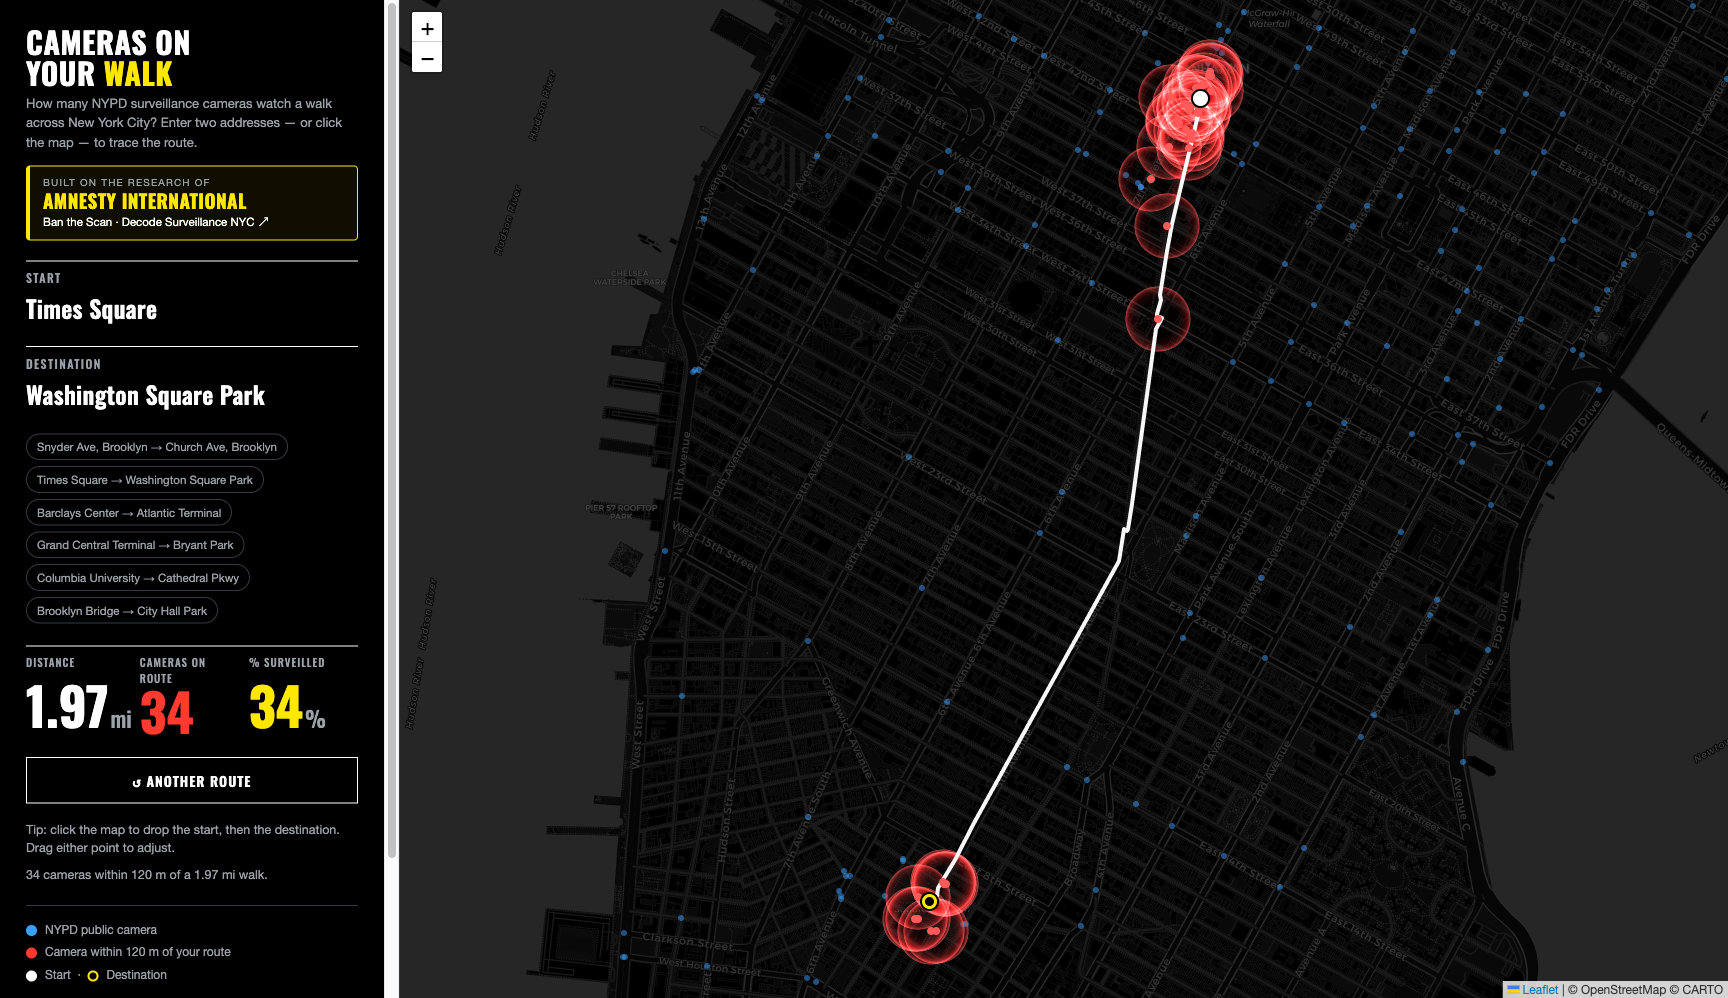
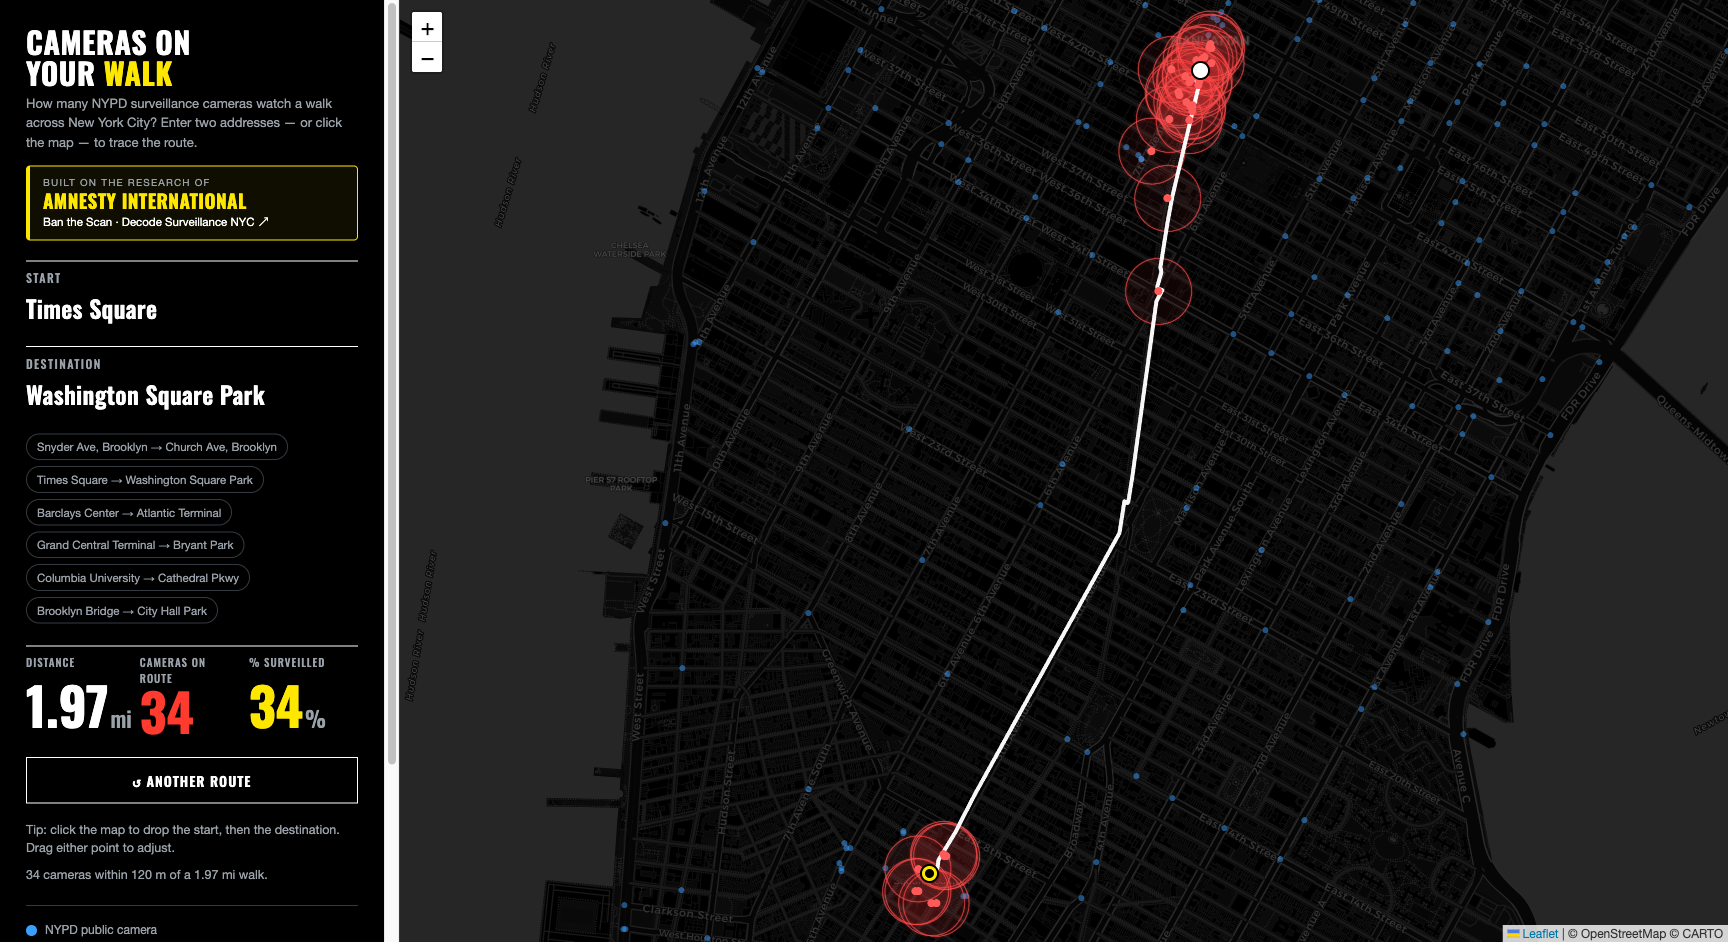
Render coverage circles as crisp SVG vector rings
Replace the rasterized additive-glow canvas layer with SVG L.circle rings: thin bright edge, near-transparent fill, a 1px drop-shadow for a hint of glow. Stays razor-sharp at any zoom (the canvas gradient looked blurry/washed-out when zoomed in) and matches the original's crisp-ring aesthetic.

diff --git a/banthescan-walk.html b/banthescan-walk.html
@@ -131,6 +131,8 @@
   .pin { width: 15px; height: 15px; border-radius: 50%; box-shadow: 0 0 0 2px #000; }
   .pin-start { background: #fff; border: 3px solid #fff; }
   .pin-end { background: #000; border: 3px solid var(--accent); }
+  /* crisp coverage ring with just a hint of glow (stays vector-sharp) */
+  .cam-ring { filter: drop-shadow(0 0 1px rgba(255,70,70,0.5)); }
 </style>
 </head>
 <body>
@@ -497,52 +499,11 @@ for (const [lat, lon] of PUBLIC) {
   }).addTo(camLayer);
 }
 
-// Additive radial-glow layer for on-route cameras — reproduces Amnesty's look:
-// a dark centre fading to a bright red rim, with overlapping circles building up
-// (globalCompositeOperation 'lighter' = true additive light).
-const GlowLayer = L.Layer.extend({
-  initialize() { this._data = []; },
-  setData(cams) { this._data = cams; this._render(); return this; },
-  onAdd(map) {
-    this._map = map;
-    this._canvas = L.DomUtil.create('canvas');
-    this._canvas.style.position = 'absolute';
-    map.getPane('glowPane').appendChild(this._canvas);
-    map.on('moveend zoomend resize move', this._render, this);
-    this._render();
-  },
-  onRemove(map) { map.off('moveend zoomend resize move', this._render, this); L.DomUtil.remove(this._canvas); },
-  _render() {
-    if (!this._map) return;
-    const map = this._map, size = map.getSize(), cv = this._canvas;
-    if (cv.width !== size.x || cv.height !== size.y) { cv.width = size.x; cv.height = size.y; }
-    L.DomUtil.setPosition(cv, map.containerPointToLayerPoint([0, 0]));
-    const ctx = cv.getContext('2d');
-    ctx.clearRect(0, 0, size.x, size.y);
-    if (!this._data.length) return;
-    ctx.globalCompositeOperation = 'lighter';
-    for (const [lat, lon] of this._data) {
-      const p = map.latLngToContainerPoint([lat, lon]);
-      const edge = map.latLngToContainerPoint([lat + RADIUS / 111320, lon]);
-      const r = Math.abs(p.y - edge.y);
-      if (r < 1.5 || p.x < -r || p.y < -r || p.x > size.x + r || p.y > size.y + r) continue;
-      const g = ctx.createRadialGradient(p.x, p.y, 0, p.x, p.y, r);
-      g.addColorStop(0.00, 'rgba(255,45,45,0)');
-      g.addColorStop(0.55, 'rgba(255,45,45,0.02)');
-      g.addColorStop(0.78, 'rgba(255,40,40,0.10)');
-      g.addColorStop(0.91, 'rgba(255,55,55,0.30)');
-      g.addColorStop(0.975, 'rgba(255,95,95,0.60)');
-      g.addColorStop(1.00, 'rgba(255,110,110,0)');
-      ctx.fillStyle = g;
-      ctx.beginPath();
-      ctx.arc(p.x, p.y, r, 0, Math.PI * 2);
-      ctx.fill();
-    }
-  },
-});
-const glowLayer = new GlowLayer().addTo(map);
+// Crisp vector coverage rings (SVG) for on-route cameras — thin bright edge,
+// mostly-dark interior, like the original. Sharp at any zoom (no raster blur).
+const glowRenderer = L.svg({ pane: 'glowPane' });
 
-// White route line + bright red camera dots, drawn above the glow.
+// White route line + bright red camera dots, drawn above the rings.
 const routeRenderer = L.canvas({ pane: 'routePane' });
 const routeLayer = L.layerGroup().addTo(map);
 
@@ -647,7 +608,12 @@ async function maybeRoute() {
 function drawRoute(pts, near) {
   routeLayer.clearLayers();
   const latlngs = pts.map((p) => [p.lat, p.lon]);
-  glowLayer.setData(near);                       // additive red glow (dark centre → red rim)
+  // Crisp 120 m coverage rings: thin bright edge + barely-there fill.
+  near.forEach((c) => L.circle([c[0], c[1]], {
+    renderer: glowRenderer, radius: RADIUS,
+    color: '#ff4d4d', weight: 1.1, opacity: 0.65,
+    fillColor: '#ff3030', fillOpacity: 0.045, className: 'cam-ring',
+  }).addTo(routeLayer));
   L.polyline(latlngs, { renderer: routeRenderer, color: '#fff', weight: 4, opacity: 0.97 }).addTo(routeLayer);
   near.forEach((c) => L.circleMarker([c[0], c[1]], {
     renderer: routeRenderer, radius: 3.5, weight: 0, fillColor: '#ff5a5a', fillOpacity: 1,
@@ -740,7 +706,7 @@ map.on('click', async (e) => {
     which = 'start';
     endPt = null; if (endMarker) { map.removeLayer(endMarker); endMarker = null; }
     el('to').value = '';
-    routeLayer.clearLayers(); glowLayer.setData([]);
+    routeLayer.clearLayers();
     ['v-dist', 'v-cams', 'v-expo'].forEach((id) => (el(id).textContent = '–'));
   } else which = 'end';
   setPoint(which, { lat, lon: lng, label: labelFor(lat, lng) }); // offline label
@@ -753,7 +719,7 @@ el('another').addEventListener('click', () => {
   startPt = endPt = null;
   [startMarker, endMarker].forEach((m) => m && map.removeLayer(m));
   startMarker = endMarker = null;
-  routeLayer.clearLayers(); glowLayer.setData([]);
+  routeLayer.clearLayers();
   el('from').value = ''; el('to').value = '';
   ['v-dist', 'v-cams', 'v-expo'].forEach((id) => (el(id).textContent = '–'));
   el('another').classList.remove('show');

diff --git a/src/template.html b/src/template.html
@@ -131,6 +131,8 @@
   .pin { width: 15px; height: 15px; border-radius: 50%; box-shadow: 0 0 0 2px #000; }
   .pin-start { background: #fff; border: 3px solid #fff; }
   .pin-end { background: #000; border: 3px solid var(--accent); }
+  /* crisp coverage ring with just a hint of glow (stays vector-sharp) */
+  .cam-ring { filter: drop-shadow(0 0 1px rgba(255,70,70,0.5)); }
 </style>
 </head>
 <body>
@@ -226,52 +228,11 @@ for (const [lat, lon] of PUBLIC) {
   }).addTo(camLayer);
 }
 
-// Additive radial-glow layer for on-route cameras — reproduces Amnesty's look:
-// a dark centre fading to a bright red rim, with overlapping circles building up
-// (globalCompositeOperation 'lighter' = true additive light).
-const GlowLayer = L.Layer.extend({
-  initialize() { this._data = []; },
-  setData(cams) { this._data = cams; this._render(); return this; },
-  onAdd(map) {
-    this._map = map;
-    this._canvas = L.DomUtil.create('canvas');
-    this._canvas.style.position = 'absolute';
-    map.getPane('glowPane').appendChild(this._canvas);
-    map.on('moveend zoomend resize move', this._render, this);
-    this._render();
-  },
-  onRemove(map) { map.off('moveend zoomend resize move', this._render, this); L.DomUtil.remove(this._canvas); },
-  _render() {
-    if (!this._map) return;
-    const map = this._map, size = map.getSize(), cv = this._canvas;
-    if (cv.width !== size.x || cv.height !== size.y) { cv.width = size.x; cv.height = size.y; }
-    L.DomUtil.setPosition(cv, map.containerPointToLayerPoint([0, 0]));
-    const ctx = cv.getContext('2d');
-    ctx.clearRect(0, 0, size.x, size.y);
-    if (!this._data.length) return;
-    ctx.globalCompositeOperation = 'lighter';
-    for (const [lat, lon] of this._data) {
-      const p = map.latLngToContainerPoint([lat, lon]);
-      const edge = map.latLngToContainerPoint([lat + RADIUS / 111320, lon]);
-      const r = Math.abs(p.y - edge.y);
-      if (r < 1.5 || p.x < -r || p.y < -r || p.x > size.x + r || p.y > size.y + r) continue;
-      const g = ctx.createRadialGradient(p.x, p.y, 0, p.x, p.y, r);
-      g.addColorStop(0.00, 'rgba(255,45,45,0)');
-      g.addColorStop(0.55, 'rgba(255,45,45,0.02)');
-      g.addColorStop(0.78, 'rgba(255,40,40,0.10)');
-      g.addColorStop(0.91, 'rgba(255,55,55,0.30)');
-      g.addColorStop(0.975, 'rgba(255,95,95,0.60)');
-      g.addColorStop(1.00, 'rgba(255,110,110,0)');
-      ctx.fillStyle = g;
-      ctx.beginPath();
-      ctx.arc(p.x, p.y, r, 0, Math.PI * 2);
-      ctx.fill();
-    }
-  },
-});
-const glowLayer = new GlowLayer().addTo(map);
+// Crisp vector coverage rings (SVG) for on-route cameras — thin bright edge,
+// mostly-dark interior, like the original. Sharp at any zoom (no raster blur).
+const glowRenderer = L.svg({ pane: 'glowPane' });
 
-// White route line + bright red camera dots, drawn above the glow.
+// White route line + bright red camera dots, drawn above the rings.
 const routeRenderer = L.canvas({ pane: 'routePane' });
 const routeLayer = L.layerGroup().addTo(map);
 
@@ -376,7 +337,12 @@ async function maybeRoute() {
 function drawRoute(pts, near) {
   routeLayer.clearLayers();
   const latlngs = pts.map((p) => [p.lat, p.lon]);
-  glowLayer.setData(near);                       // additive red glow (dark centre → red rim)
+  // Crisp 120 m coverage rings: thin bright edge + barely-there fill.
+  near.forEach((c) => L.circle([c[0], c[1]], {
+    renderer: glowRenderer, radius: RADIUS,
+    color: '#ff4d4d', weight: 1.1, opacity: 0.65,
+    fillColor: '#ff3030', fillOpacity: 0.045, className: 'cam-ring',
+  }).addTo(routeLayer));
   L.polyline(latlngs, { renderer: routeRenderer, color: '#fff', weight: 4, opacity: 0.97 }).addTo(routeLayer);
   near.forEach((c) => L.circleMarker([c[0], c[1]], {
     renderer: routeRenderer, radius: 3.5, weight: 0, fillColor: '#ff5a5a', fillOpacity: 1,
@@ -469,7 +435,7 @@ map.on('click', async (e) => {
     which = 'start';
     endPt = null; if (endMarker) { map.removeLayer(endMarker); endMarker = null; }
     el('to').value = '';
-    routeLayer.clearLayers(); glowLayer.setData([]);
+    routeLayer.clearLayers();
     ['v-dist', 'v-cams', 'v-expo'].forEach((id) => (el(id).textContent = '–'));
   } else which = 'end';
   setPoint(which, { lat, lon: lng, label: labelFor(lat, lng) }); // offline label
@@ -482,7 +448,7 @@ el('another').addEventListener('click', () => {
   startPt = endPt = null;
   [startMarker, endMarker].forEach((m) => m && map.removeLayer(m));
   startMarker = endMarker = null;
-  routeLayer.clearLayers(); glowLayer.setData([]);
+  routeLayer.clearLayers();
   el('from').value = ''; el('to').value = '';
   ['v-dist', 'v-cams', 'v-expo'].forEach((id) => (el(id).textContent = '–'));
   el('another').classList.remove('show');